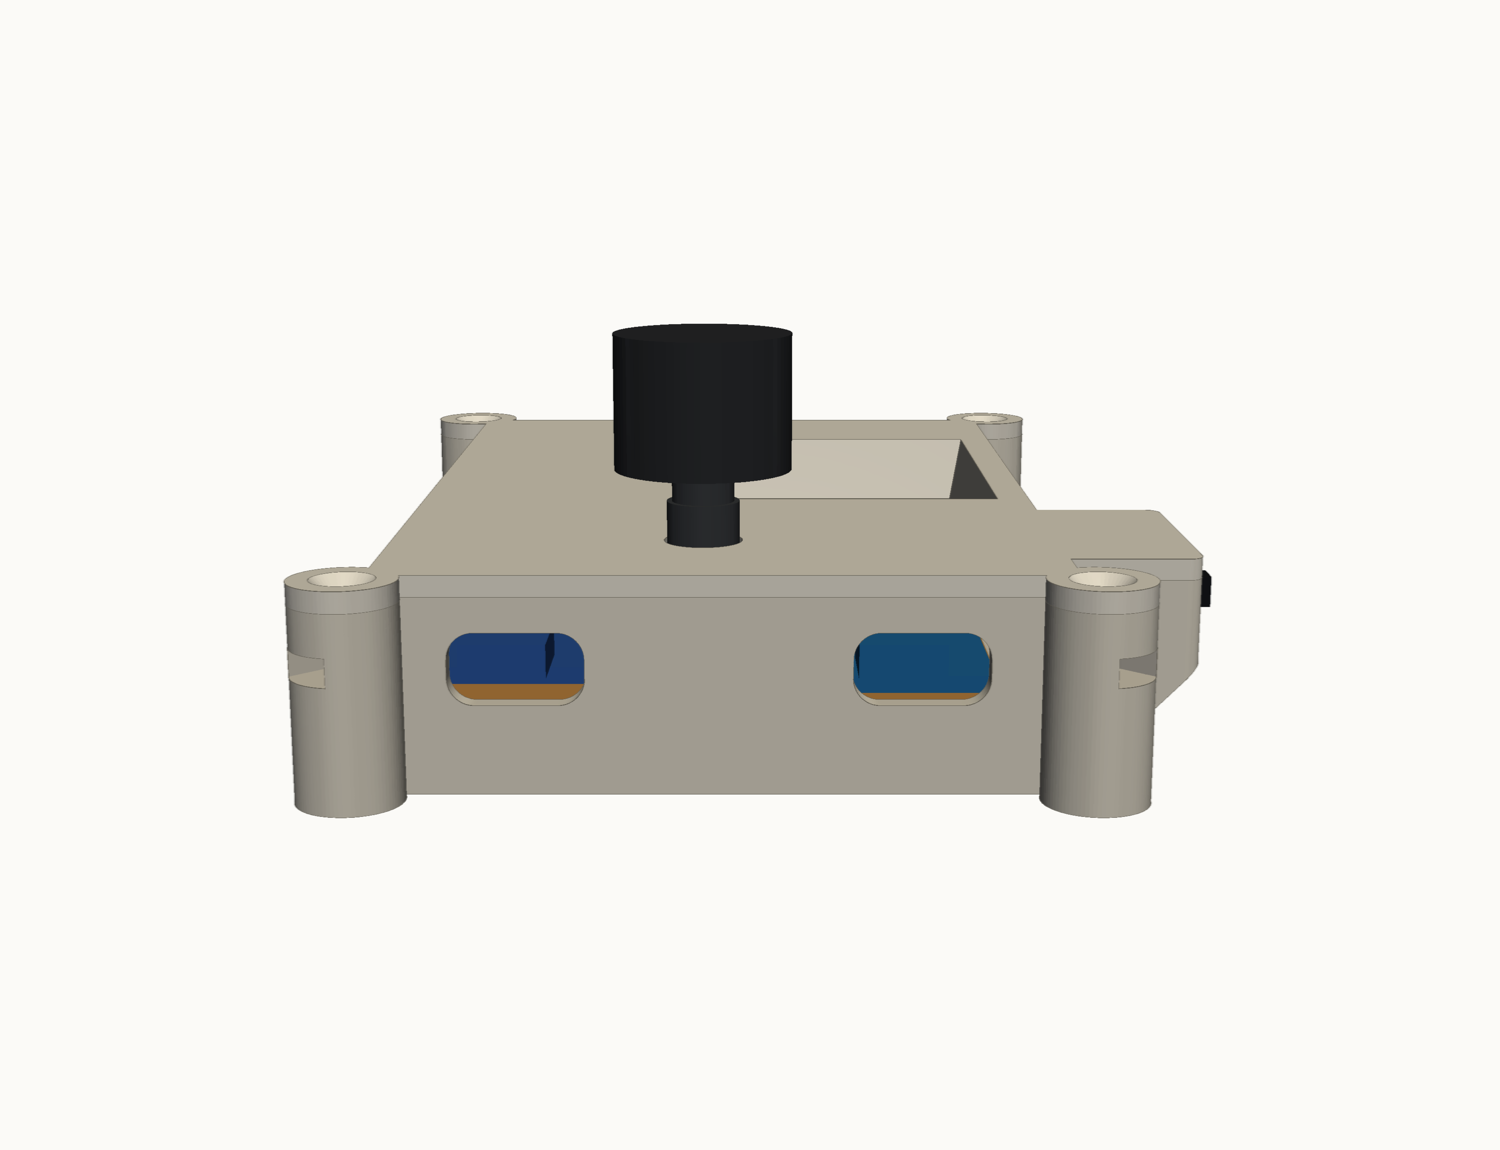
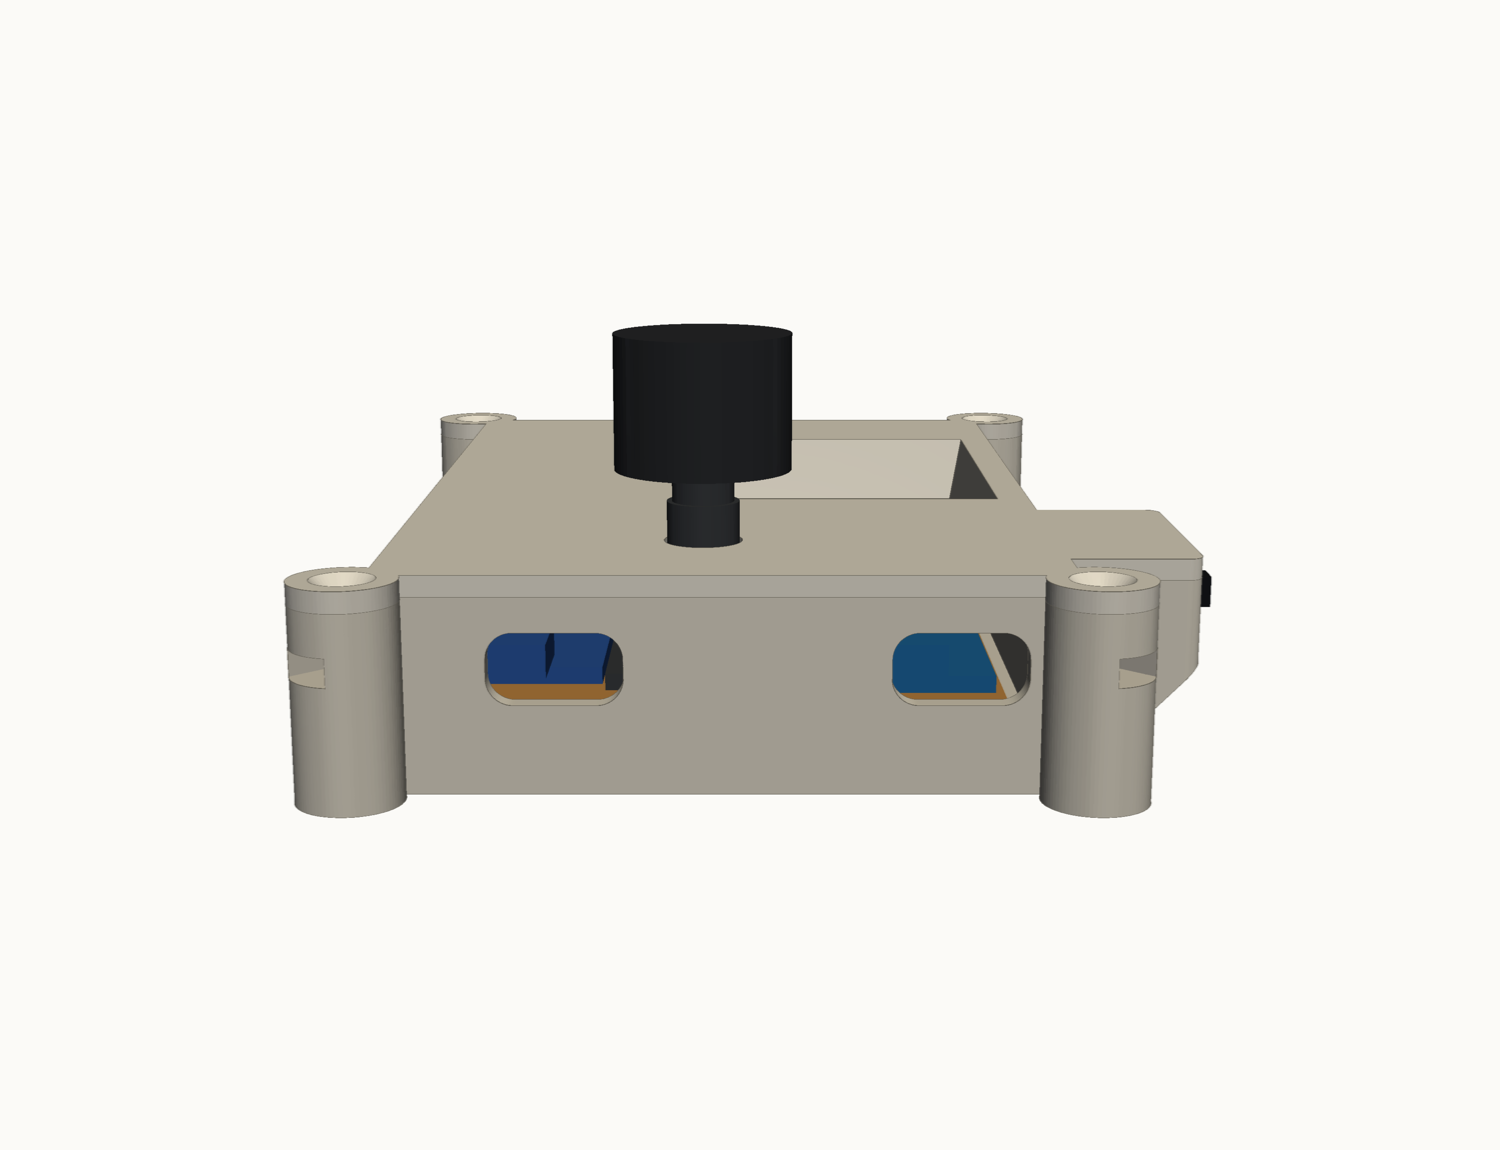
Case: USB-C openings 5 mm towards the charger side of the first print

diff --git a/hardware/case/paata_case.py b/hardware/case/paata_case.py
@@ -41,7 +41,7 @@ NUT_DROP = 4.0                        # plastic between the lid and the nut slot
 # positions, EST unless noted (y is measured down from the jack end in the photos)
 yd = lambda y: BOARD_L - y
 JACK_X, JACK_Z, JACK_D = X0 + 12.5, ZTOP - 4.5, 6.0     # measured on the first print: from the inside of the left wall, from the top of the wall
-USB_ESP_X, USB_CHG_X, USB_Z = 10.8, 47.6, 9.8      # moved 1.5 towards the charger side after the first print
+USB_ESP_X, USB_CHG_X, USB_Z = 14.3, 51.1, 9.8      # moved 5.0 towards the charger side after the first print (owner's measurement)
 SD_Y0, SD_Y1, SD_Z = yd(46.8), yd(22.8), 5.6
 ENC_X, ENC_Y = 27.5, yd(76.7)
 WIN_X, WIN_Y, WIN_W, WIN_H = 41.9, yd(34.5), 30.0, 37.0      # screen window at the screen face

diff --git a/.claude/CLAUDE.md b/.claude/CLAUDE.md
@@ -165,7 +165,8 @@ Board is built and wired (2026-11-15). Owner's caliper readings of the finished 
   cut was extruded the wrong way and never reached the wall); the USB-C sockets sat against
   the charger-side edge of their openings. Now: jack hole 6 mm, centre 12.5 from the inside
   of the left wall and 4.5 below the top of the base wall (owner's measurements); both
-  USB-C openings moved 1.5 towards the charger side (owner asked for at least 0.5).
+  USB-C openings moved 5.0 towards the charger side from the first print (owner's figure;
+  centres now x 14.3 and 51.1).
 
 ## Library conventions the firmware assumes
 - Track files are named `NN - Artist - Title.flac`, one folder per album.
